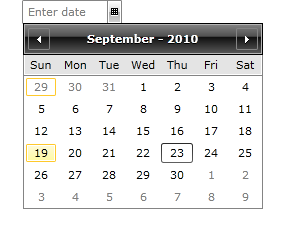
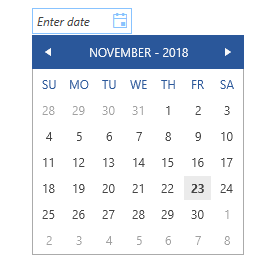
DateTimePicker: Updated how to hide the week numbers article.

diff --git a/controls/raddatetimepicker/how-to/hide-week-numbers.md b/controls/raddatetimepicker/how-to/hide-week-numbers.md
@@ -1,7 +1,7 @@
 ---
 title: How to hide week numbers
 page_title: How to hide week numbers
-description: How to hide week numbers
+description: This article demonstrates how one can define a style for the RadCalendar inside the drop down of a RadDateTimePicker in order to hide the week numbers.
 slug: raddatetimepicker-how-to-hide-week-numbers
 tags: how,to,hide,week,numbers
 published: True
@@ -10,61 +10,50 @@ position: 6
 
 # How to hide week numbers
 
+The purpose of this article is to demonstrate how the week numbers in the RadCalendar part inside the drop down of a __RadDateTimePicker__ can be hidden. 
 
+## Hiding the week numbers
 
-## 
+In order to hide the week numbers, one can use the __CalendarStyle__ property of the __RadDateTimePicker__. This style is applied to the __RadCalendar__, placed inside the drop down portion of the control. This property is useful, because it allows you to set additional properties to the calendar. So, here are the steps to create a __CalendarStyle__ and remove week numbers:
 
-This article shows you how to hide week numbers in __RadDateTimePicker__ control. In the previous versions of __RadDatePicker__ control there was an __AreWeekNumbersVisible__ property which indicates whether the week numbers are visible or not. This property is __Obsolete__ in the current version of __RadDateTimePicker__(Q2 2010) and it will be removed in the future releases. From now on if you want to disable the week numbers in __RadDateTimePicker__ (and in __RadDatePicker__ as well) I would suggest you to use the __CalendarStyle__ property. This style affects the style of the __RadCalendar__, placed inside the __RadDateTimePicker__. Using this property is very useful, because it allows you to set more additional properties to the calendar. So, here are the steps to create a __CalendarStyle__ and disable week numbers:
+* First, create a __Style__ for __RadCalendar__:
 
-* First, create a __Style__ for the __RadCalendar__:
+	#### __[XAML] Example 1: Defining a style for RadCalendar__
 
+	{{region xaml-raddatetimepicker-how-to-hide-week-numbers_1}}
+		<UserControl.Resources>
+			<Style x:Key="calendarStyle" TargetType="telerik:RadCalendar">
+				<!--....-->
+			</Style>
+		</UserControl.Resources>
+	{{endregion}}
 
+* Then, add a __Setter__ for the __AreWeekNumbersProperty__ property and set the __Value__ to __False__
 
-#### __XAML__
-
-{{region xaml-raddatetimepicker-how-to-hide-week-numbers_1}}
-	<UserControl.Resources>
-	    <Style x:Key="calendarStyle" TargetType="telerik:RadCalendar">
-	        <!--....-->
-	    </Style>
-	</UserControl.Resources>
-{{endregion}}
-
-
-
-* Then, add a __Setter__ for __AreWeekNumbersProperty__ property and set the __Value__ to __False__
-
-#### __XAML__
-
-{{region xaml-raddatetimepicker-how-to-hide-week-numbers_3}}
-	<UserControl.Resources>
-	    <Style x:Key="calendarStyle" TargetType="telerik:RadCalendar">
-	        <Setter Property="AreWeekNumbersVisible" Value="False" />
-	    </Style>
-	</UserControl.Resources>
-{{endregion}}
-
-
-
-
+	#### __[XAML] Example 2: Setting the AreWeekNumbersVisible property__
+	{{region xaml-raddatetimepicker-how-to-hide-week-numbers_3}}
+		<UserControl.Resources>
+			<Style x:Key="calendarStyle" TargetType="telerik:RadCalendar">
+				<Setter Property="AreWeekNumbersVisible" Value="False" />
+			</Style>
+		</UserControl.Resources>
+	{{endregion}}
 
 * The final step is to create a __RadDateTimePicker__ control and set __CalendarStyle__ to the Style that you created. Please, pay attention that if the __InputMode__ is set to __TimePicker__, the __CalendarStyle__ will take no effect on the control.
 
+	#### __[XAML] Example 3: Setting the CalendarStyle property__
 
-#### __XAML__
+	{{region xaml-raddatetimepicker-how-to-hide-week-numbers_4}}
+		<telerik:RadDateTimePicker Width="100"                            
+						InputMode="DatePicker"                            
+						CalendarStyle="{StaticResource calendarStyle}"                            
+						VerticalAlignment="Center"/>
+	{{endregion}}
 
-{{region xaml-raddatetimepicker-how-to-hide-week-numbers_4}}
-	<telerik:RadDateTimePicker Width="100"                            
-	                   InputMode="DatePicker"                            
-	                   CalendarStyle="{StaticResource calendarStyle}"                            
-	                   VerticalAlignment="Center"/>
-{{endregion}}
+#### __Figure 1: Result from Example 3 in the Office2016 theme__
+![RadDateTimePicker without week numbers](images/dateTimePicker_how_to_hide_week_numbers.png)
 
+## See also 
 
-
-
-
-Here is the result:
-        ![](images/dateTimePicker_how_to_hide_week_numbers.png)
-
-That's all! We created a simple __RadDateTimePicker__ control and hid the week numbers. You could use the same method to set whatever property you want to customize the __RadCalendar__ in the __RadDateTimePicker__ control. 
+* [Input Modes]({%slug raddatetimepicker-features-input-modes%})
+* [How to Set the First Day of the Week]({%slug raddatetimepicker-how-to-set-first-day-calendar%})
